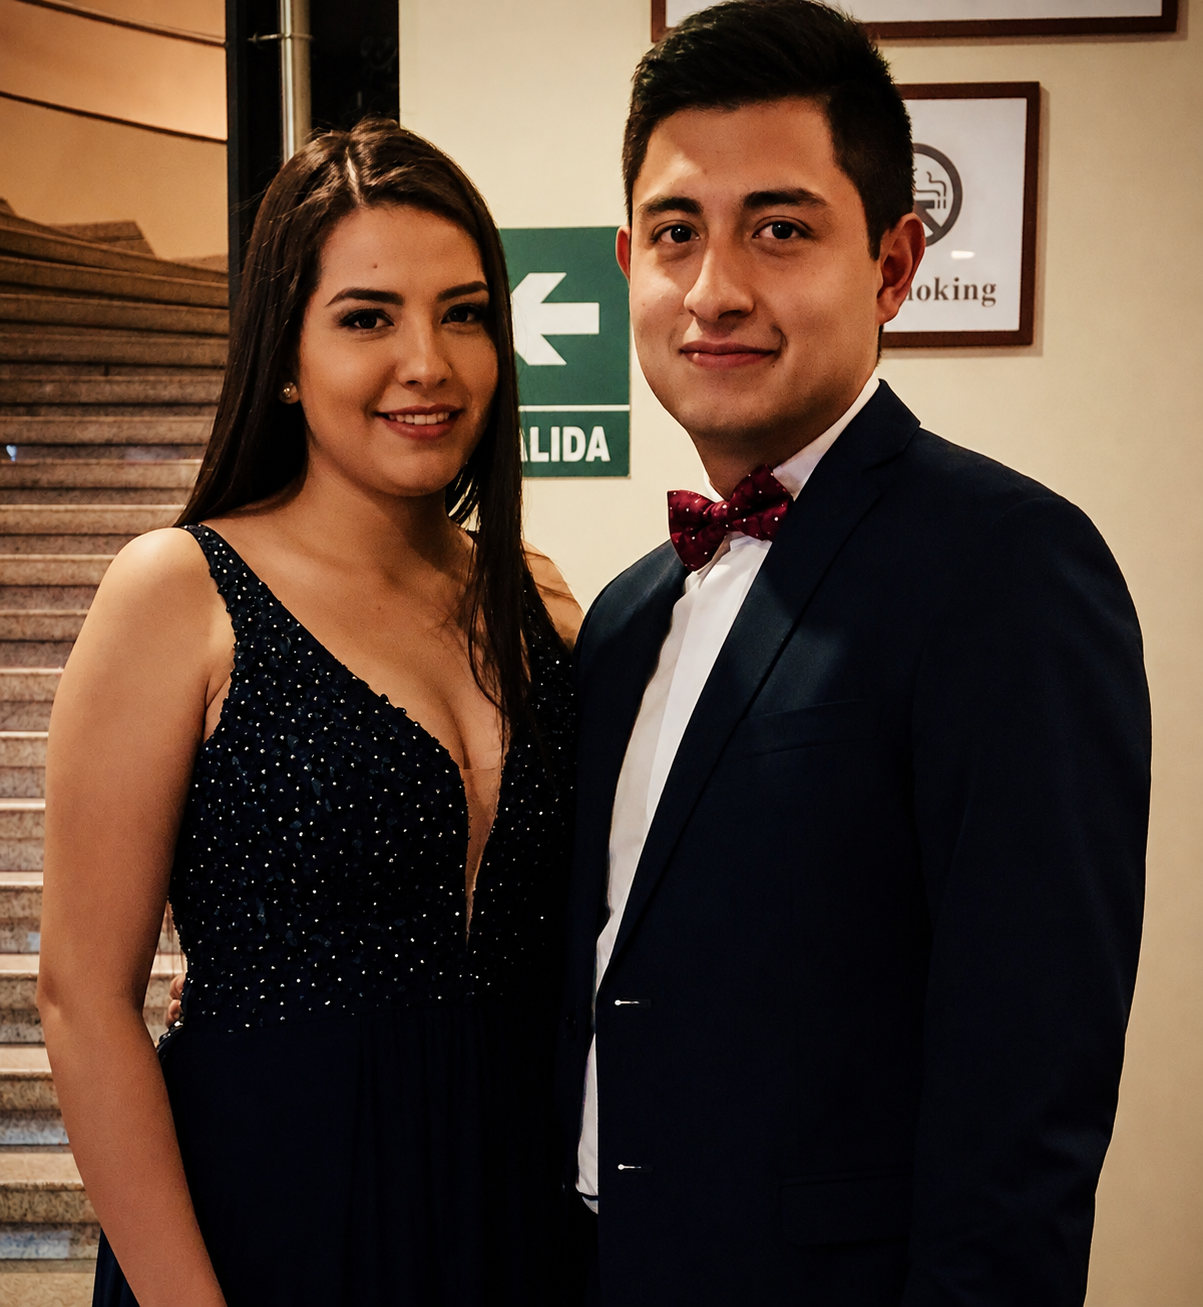
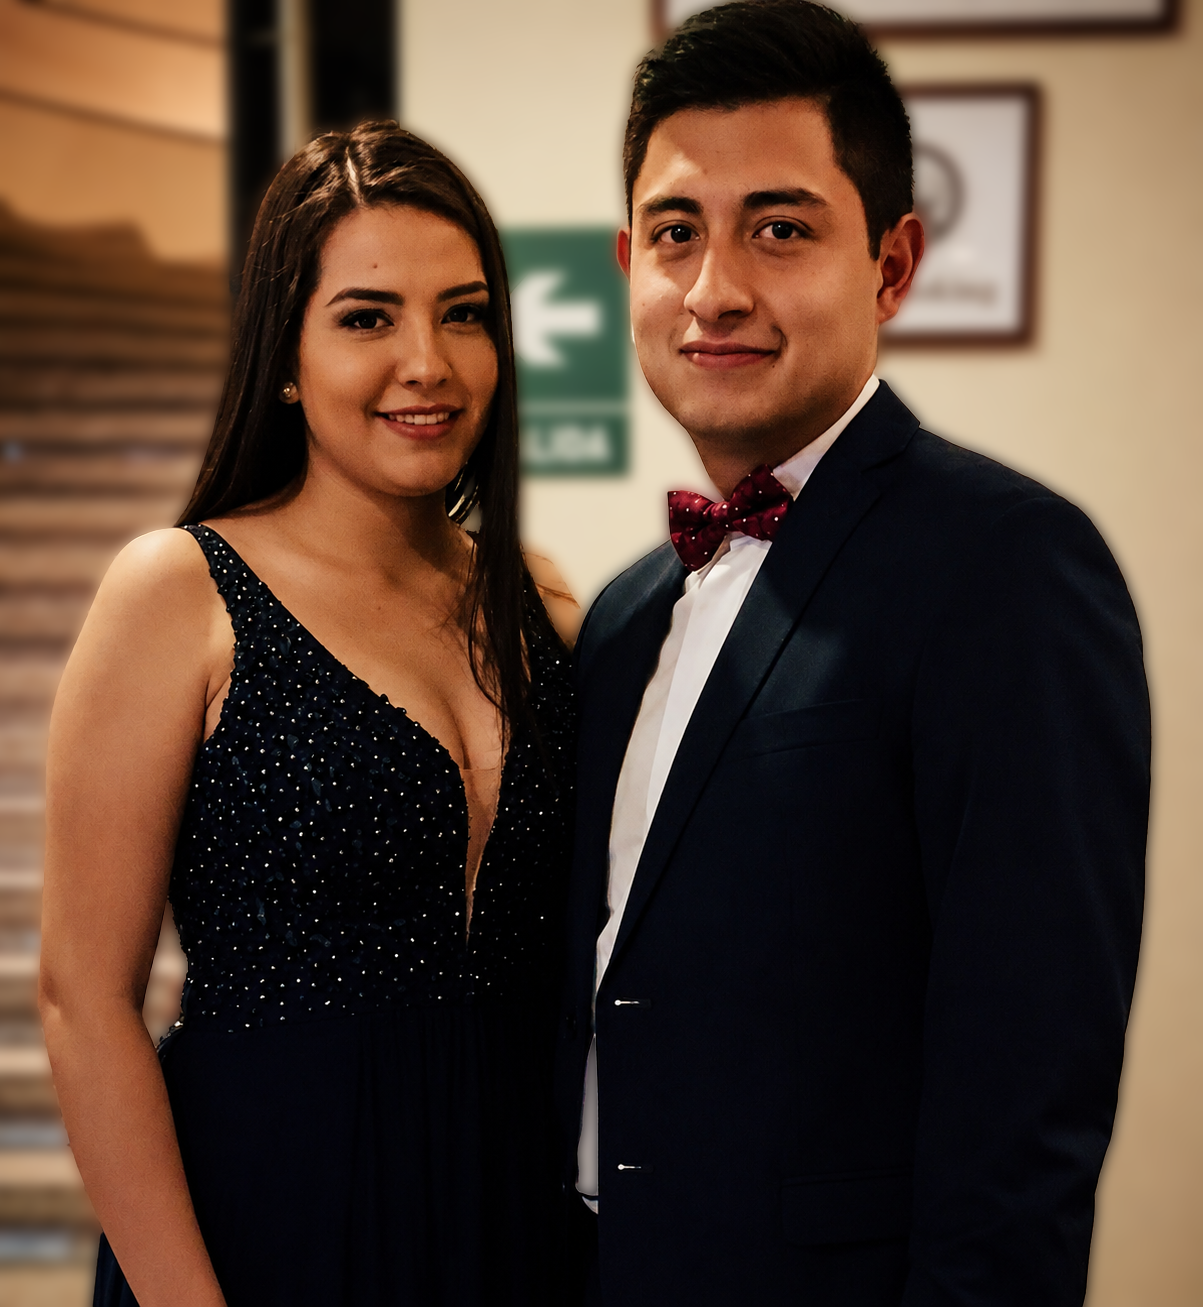
feat: hero a principal_hero.png, boton RSVP izquierda elevado, autoplay Tan Enamorados, foto p3 centrada 50% 35%

diff --git a/invitacion.html b/invitacion.html
@@ -28,14 +28,13 @@
       --serif: 'EB Garamond', Georgia, serif;
     }
 
-    /* Botón RSVP fijo - pill con texto */
+    /* Botón RSVP fijo - pill con texto (izquierda, elevado sobre footer) */
     .rsvp-fixed-btn {
       position: fixed;
-      bottom: 24px;
-      left: 50%;
-      transform: translateX(-50%);
+      bottom: 72px;
+      left: 24px;
       z-index: 100;
-      padding: 14px 32px;
+      padding: 14px 28px;
       border-radius: 999px;
       background: var(--ink);
       border: 1px solid var(--gold);
@@ -52,7 +51,7 @@
     .rsvp-fixed-btn:hover {
       background: var(--gold);
       border-color: var(--gold);
-      transform: translateX(-50%) scale(1.04);
+      transform: scale(1.04);
     }
     .rsvp-fixed-btn:focus-visible {
       outline: 2px solid var(--gold);
@@ -113,8 +112,9 @@
 
     @media (max-width: 480px) {
       .rsvp-fixed-btn {
-        bottom: 16px;
-        padding: 12px 22px;
+        bottom: 62px;
+        left: 16px;
+        padding: 12px 20px;
         font-size: 0.7rem;
       }
       .music-toggle {
@@ -792,7 +792,7 @@
     <svg class="music-icon-play" viewBox="0 0 24 24" fill="none" stroke="currentColor" stroke-width="1.5" stroke-linecap="round" stroke-linejoin="round" style="display:block;"><polygon points="5 3 19 12 5 21 5 3"/></svg>
     <svg class="music-icon-pause" viewBox="0 0 24 24" fill="none" stroke="currentColor" stroke-width="1.5" stroke-linecap="round" stroke-linejoin="round" style="display:none;"><rect x="6" y="4" width="4" height="16"/><rect x="14" y="4" width="4" height="16"/></svg>
   </button>
-  <audio id="bg-music" loop preload="auto"><source src="/src/assets/audio/tan-enamorados-montaner.wav" type="audio/wav"></audio>
+  <audio id="bg-music" loop preload="auto" autoplay><source src="/src/assets/audio/tan-enamorados-montaner.wav" type="audio/wav"></audio>
 
   <!-- Pantalla de carga -->
   <div class="gate" id="gate-loading">
@@ -809,7 +809,7 @@
   <!-- Página 1 · Portada + countdown -->
   <section class="slide intro">
     <div class="hero-full photo-rv" style="--d:0s">
-      <img src="/src/assets/images/principal_hero.jpg" alt="Gloria y Juan José">
+      <img src="/src/assets/images/principal_hero.png" alt="Gloria y Juan José">
       <div class="hero-overlay"></div>
       <div class="hero-content">
         <p class="hero-invite rv" style="--d:.4s">Gloria &amp; Juan te invitan</p>
@@ -858,7 +858,7 @@
   <!-- Página 3 · Foto full frame -->
   <section class="slide transition">
     <span class="page-num on-photo">03</span>
-    <img src="/src/assets/images/02.png" alt="Gloria y Juan José">
+    <img src="/src/assets/images/02.png" alt="Gloria y Juan José" style="object-position: 50% 35%;">
   </section>
 
   <!-- Página 4 · El Gran Día — ubicaciones -->
@@ -1189,7 +1189,7 @@
         document.getElementById("rsvp-adicionales-group").style.display = asistira ? "" : "none";
       }
 
-      // Musica
+      // Musica - autoplay al abrir
       (function(){
         var btn=document.getElementById("music-toggle");
         var audio=document.getElementById("bg-music");
@@ -1201,17 +1201,26 @@
           if(playIcon) playIcon.style.display=isPlaying?"none":"block";
           if(pauseIcon) pauseIcon.style.display=isPlaying?"block":"none";
           btn.setAttribute("aria-pressed", isPlaying?"true":"false");
+          if(isPlaying) btn.classList.add("playing"); else btn.classList.remove("playing");
+        }
+        function tryPlay(){
+          var p=audio.play();
+          if(p && p.then) p.then(function(){ isPlaying=true; updateIcons(); }).catch(function(){ isPlaying=false; updateIcons(); });
         }
         btn.addEventListener("click", function(){
           if(isPlaying){ audio.pause(); isPlaying=false; updateIcons(); }
-          else { audio.muted=false; audio.play().then(function(){ isPlaying=true; updateIcons(); }).catch(function(){}); }
+          else { tryPlay(); }
         });
-        document.addEventListener("click", function initOnce(){
-          if(isPlaying) return;
-          audio.muted=false;
-          audio.play().then(function(){ isPlaying=true; updateIcons(); }).catch(function(){});
-          document.removeEventListener("click", initOnce);
-        }, {once:true});
+        // Intento autoplay inmediato (navegador puede bloquearlo)
+        audio.volume=0.85;
+        tryPlay();
+        window.addEventListener("load", tryPlay);
+        setTimeout(tryPlay, 800);
+        // Fallback: cualquier interacción lo inicia si fue bloqueado
+        var onFirstInteract=function(){ if(!isPlaying) tryPlay(); };
+        document.addEventListener("click", onFirstInteract, {once:true});
+        document.addEventListener("touchstart", onFirstInteract, {once:true, passive:true});
+        document.addEventListener("keydown", onFirstInteract, {once:true});
         updateIcons();
       })();
 

diff --git a/config.js b/config.js
@@ -14,7 +14,7 @@ const EVENTO = {
   },
   dressCode: "Formal / Elegante",
   mensajeNovios: "Los novios le invitan a usted a compartir un momento especial en nuestras vidas.",
-  heroImage: "src/assets/images/principal_hero.jpg",
+  heroImage: "src/assets/images/principal_hero.png",
   detailImage: "src/assets/images/detail.jpg",
   urlBase: "https://invitaciones-de-boda-personalizada.vercel.app",
   rsvpEndpoint: "https://qtnfqejnmzikiobhmkmv.supabase.co/rest/v1/respuestas",
